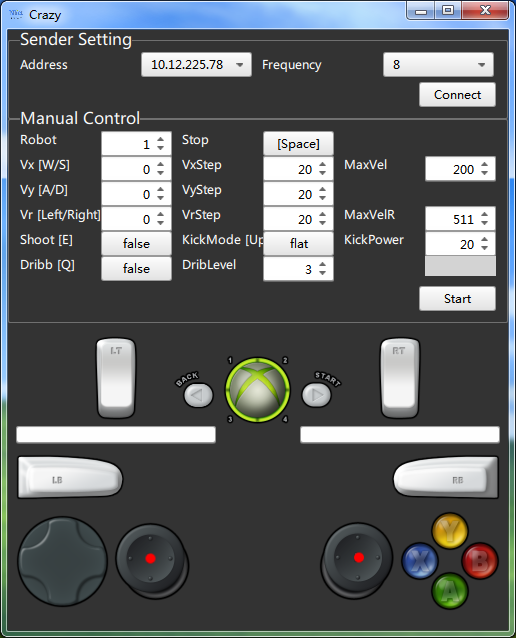
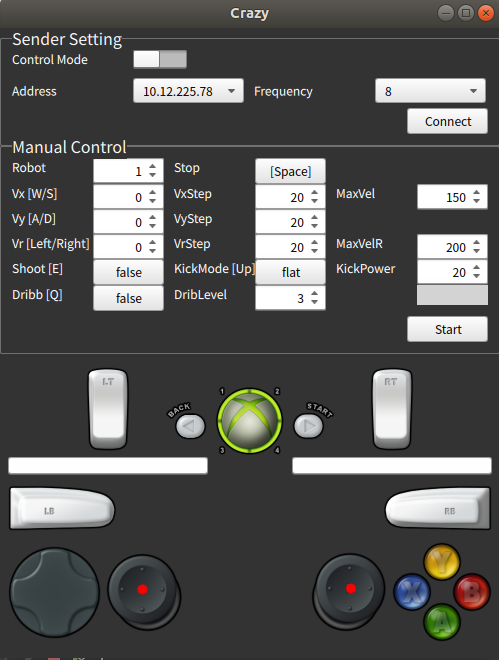
Add Rotation, dribble, kick, switch

diff --git a/qml/main.qml b/qml/main.qml
@@ -7,18 +7,20 @@ import QtGamepad 1.0
 import ZSS 1.0 as ZSS
 ApplicationWindow{
     visible:true;
-    height:600;
+    height:630;
     width:500;
     color: "#333"
     id:window;
     ZSS.Interaction { id : interaction; }
+
     Timer{
         id:timer;
         interval:16;//15 ms
         running:false;
         repeat:true;
         onTriggered: {
-            crazyShow.updateFromGamepad();
+            if(switchControl.checked)
+                crazyShow.updateFromGamepad();
             crazyShow.updateCommand();
             interaction.sendCommand();
         }
@@ -42,11 +44,27 @@ ApplicationWindow{
                         verticalItemAlignment: Grid.AlignVCenter;
                         horizontalItemAlignment: Grid.AlignLeft;
                         columnSpacing: 10;
-                        rowSpacing: 0;
+                        rowSpacing: 10;
                         columns:4;
                         width:parent.width;
                         property int itemWidth : (width - (columns-1) * columnSpacing - 2*padding)/columns;
                         enabled: !crazyConnect.ifConnected;
+                        ZText{
+                            text: qsTr("Control Mode");
+                        }
+                        Switch {
+                            id : switchControl;
+                            checked :window.useGamepad
+                            onClicked: {
+                                window.useGamepad = checked;
+                            }
+                        }
+                        ZText{
+                            text: qsTr(" ");
+                        }
+                        ZText{
+                            text: qsTr(" ");
+                        }
                         ZText{
                             text: qsTr("Address");
                         }
@@ -114,11 +132,11 @@ ApplicationWindow{
                         property int dribbleLevel : 3;//DribLevel
                         property int rushSpeed : 20;//RushSpeed
 
-                        property int m_VEL : 200//MaxVel
-                        property int velocityRMax : 511;//MaxVelR
+                        property int m_VEL : 150//MaxVel
+                        property int velocityRMax : 1023;//MaxVelR
                         property int power : 20;//KickPower
 
-                        property int m_VELR : 1023
+                        property int m_VELR : 200
                         property int velocityMax : 511;
                         property int dribbleMaxLevel : 3;
                         property int kickPowerMax: 127;
@@ -252,8 +270,32 @@ ApplicationWindow{
                             interaction.updateCommandParams(crazyShow.robotID,crazyShow.velX,crazyShow.velY,crazyShow.velR,crazyShow.dribble,crazyShow.dribbleLevel,crazyShow.mode,crazyShow.shoot,crazyShow.power);
                         }
                         function updateFromGamepad(){
-                            crazyShow.velX = -parseInt(gamepad.axisLeftY*100)/100.0*crazyShow.m_VEL;
-                            crazyShow.velY = parseInt(gamepad.axisLeftX*100)/100.0*crazyShow.m_VEL;
+                            crazyShow.velX = -parseInt(gamepad.axisLeftY*10)/10.0*crazyShow.m_VEL;
+                            crazyShow.velY = parseInt(gamepad.axisLeftX*10)/10.0*crazyShow.m_VEL;
+                            crazyShow.velR = parseInt(gamepad.axisRightX*10)/10.0*crazyShow.m_VELR;
+                            if(gamepad.buttonX > 0){
+                                crazyShow.power = parseInt(gamepad.buttonL2*10)/10.0*crazyShow.kickPowerMax;
+                                crazyShow.mode = true;
+                                crazyShow.shoot = gamepad.buttonX;
+                            }
+                            else if(gamepad.buttonY > 0){
+                                crazyShow.power = parseInt(gamepad.buttonL2*10)/10.0*crazyShow.kickPowerMax;
+                                crazyShow.mode = false;
+                                crazyShow.shoot = gamepad.buttonY;
+
+                            }
+                            else{
+                                crazyShow.shoot = 0;
+                            }
+
+                            if(gamepad.buttonR2 > 0){
+                                crazyShow.dribbleLevel =  parseInt(gamepad.buttonR2*10)/10.0*crazyShow.dribbleMaxLevel;
+                                crazyShow.dribble = true ;
+                            }
+                            else{
+                                crazyShow.dribble = false ;
+                            }
+
                             console.log(velX,velY);
                         }
                         function limitVel(vel,minValue,maxValue){
@@ -496,6 +538,11 @@ ApplicationWindow{
             Gamepad {
                 id: gamepad
                 deviceId: GamepadManager.connectedGamepads.length > 0 ? GamepadManager.connectedGamepads[0] : -1
+                property int count : 0;
+                onButtonGuideChanged: {
+                    if(gamepad.buttonGuide == false)
+                        switchControl.checked = !switchControl.checked
+                }
             }
         }
     }

diff --git a/README.md b/README.md
@@ -11,3 +11,13 @@
 You can use Qt Creator to open this project and build it, or just run cmake_build.sh and build it automatically.
 
 ![Crazy](./doc/Crazy.png)
+
+## How to use this Crazy with Controller
+* 1. If you want to use the original crazy with keyboard, feel free to use it without switching the "Control Mode" switch on the up-left corner.
+* 2. if you are ready to use the controller, switch the "Control Mode" switch and remember this by doing this, you will disable your keyboard manipulation.
+* 3. Once you are in the Controller Mode, please read the followings.
+* 4. The Left Joystick will enable your robot to move in X and Y direction.
+* 5. The Right Joystick will enable your robot to spin.
+* 6. The Right Trigger will give the robot a dribbling command and also a dribbling level according to  the force you applied.
+* 7. The Left Trigger will give the Kick Power according to the force, and if you press X(or Y) at the same time, the robot will flat kick(or chip kick) the ball with the specific power .
+* 8. TO BE CONTINUE........
